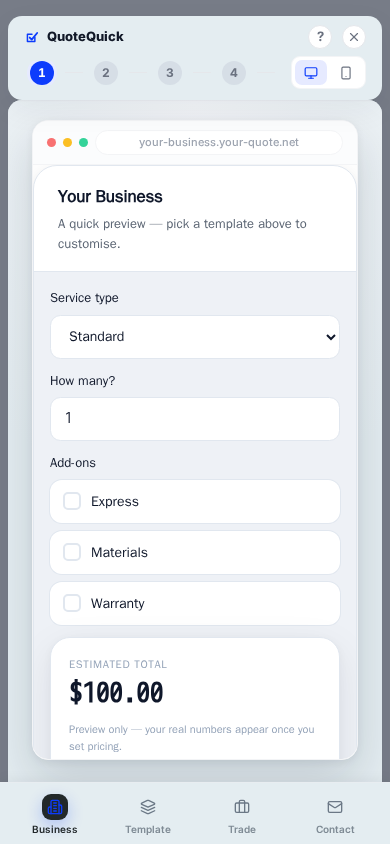
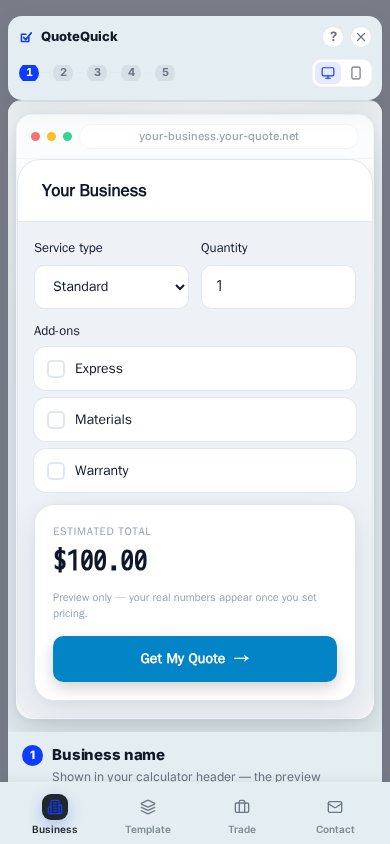
fix(quotequick): mobile polish — navbar fit, widget width, service+quantity row, 1px separator (#339)
* fix(quotequick): placeholder preview — drop subtitle, pair Service + Quantity

Wave G mobile polish (Fixes 2 + 4):

- buildBlankPreviewConfig: remove the auto-subtitle from the placeholder
  header so the preview header reads as a single clean line. Saved
  templates that author an explicit subtitle still render it.
- Rename the placeholder field label "How many?" -> "Quantity" — clearer
  intent for a numeric quantity selector.
- Add an optional `colSpan: 1 | 2` field hint on TemplateField and have
  AdvancedCalculator honour it via a 2-col CSS grid: default span 2
  (full width) so existing templates are visually unchanged; span 1
  pairs two short fields on one row. The placeholder uses colSpan: 1
  on Service + Quantity (same row) and colSpan: 2 on Add-ons.
- Multi-column layout opts back into its auto-fit grid (grid-column:
  auto) so it keeps the 3-up flex behaviour.
- <=360px collapses all colSpan: 1 fields back to a single column.

* fix(quotequick): wizard mobile chrome — step rail, full-width widget, separator

Wave G mobile polish (Fixes 1 + 3 + 5 / meta):

Fix 1 — Step circles + device toggle fit a single line on phones.
  At <=480px the step list no longer scrolls — circles shrink to 20px,
  connectors shrink to 8px, gaps tighten, the device toggle buttons
  shrink to 26x22, and the help/close buttons drop to 22x22. The whole
  navbar fits within a 360–414px viewport with no overflow.

Fix 3 / meta — Widget uses near-full screen width on mobile.
[…]

diff --git a/tests/audit/wizard-mobile.spec.ts b/tests/audit/wizard-mobile.spec.ts
@@ -1,0 +1,133 @@
+/**
+ * QuoteQuick wizard — Step 1 mobile polish (Wave G).
+ *
+ * Verifies the five user-reported mobile issues are fixed on a real phone
+ * viewport (iPhone 14-ish: 390 × 844):
+ *  1. Step circles + device toggle fit within the viewport width — no
+ *     horizontal overflow on the navbar.
+ *  2. The widget content uses near-full screen width (widget bounding box
+ *     ≥ viewport.width - 40px on mobile).
+ *  3. Service type and Quantity inputs render on the same row in the
+ *     placeholder preview (their top coords are within a few pixels).
+ *  4. The placeholder header has no subtitle paragraph below the title.
+ *  5. There is a visible 1px-ish separator between the step navbar and the
+ *     widget pane (the preview-fixed gets a top border on mobile).
+ *
+ * Runs under audit.config.ts (vite preview on :5000, no API).
+ */
+import { test, expect } from '@playwright/test';
+
+test.use({ viewport: { width: 390, height: 844 } });
+
+test.describe('wizard step 1 — mobile polish (Wave G)', () => {
+  test.beforeEach(async ({ page }) => {
+    await page.addInitScript(() => {
+      try {
+        localStorage.removeItem('qq_wizard');
+        localStorage.removeItem('qq_step');
+        localStorage.removeItem('qq_result');
+      } catch {}
+    });
+  });
+
+  test('step circles + device toggle fit one line, no horizontal overflow', async ({ page }) => {
+    await page.goto('/wizard', { waitUntil: 'domcontentloaded' });
+    await page.waitForTimeout(1500);
+
+    const navbar = page.locator('.wizard-navbar').first();
+    await expect(navbar).toBeVisible();
+
+    // All five numbered step buttons are present and visible.
+    for (let i = 1; i <= 5; i++) {
+      await expect(page.getByTestId(`nav-step-${i}`)).toBeVisible();
+    }
+
+    // Device toggle (mobile preview) is present (only renders on steps that
+    // show the side preview — Step 1 does).
+    const deviceMobile = page.getByTestId('preview-device-mobile');
+    await expect(deviceMobile).toBeVisible();
+
+    // The step list must not horizontally overflow its container — its
+    // scrollWidth equals its clientWidth (no clipped/scrollable content).
+    const steplist = page.locator('.wizard-nav-steplist').first();
+    const noOverflow = await steplist.evaluate((el) => el.scrollWidth <= el.clientWidth + 1);
+    expect(noOverflow).toBe(true);
+
+    // The navbar's right edge fits within the viewport — no off-screen
+    // content from the step row + device toggle combination.
+    const navBox = await navbar.boundingBox();
+    expect(navBox).not.toBeNull();
+    expect(navBox!.x + navBox!.width).toBeLessThanOrEqual(390 + 1);
+  });
+
+  test('widget uses near-full viewport width on mobile', async ({ page }) => {
+    await page.goto('/wizard', { waitUntil: 'domcontentloaded' });
+    await page.waitForTimeout(1500);
+
+    // Either bezel may be visible — default is desktop. On mobile screens
+    // both must expand to ≥ viewport.width - 40px (the Wave G meta rule).
+    const calc = page.getByTestId('advanced-calculator').first();
+    await expect(calc).toBeVisible();
+
+    const box = await calc.boundingBox();
+    expect(box).not.toBeNull();
+    expect(box!.width).toBeGreaterThanOrEqual(390 - 40);
+
+    // Now flip to mobile-bezel mode — same assertion must hold.
+    await page.getByTestId('preview-device-mobile').click();
+    await page.waitForTimeout(150);
+    const mobileBox = await calc.boundingBox();
+    expect(mobileBox).not.toBeNull();
+    expect(mobileBox!.width).toBeGreaterThanOrEqual(390 - 80); // mobile bezel adds bezel padding
+  });
+
+  test('Service type + Quantity render on the same row', async ({ page }) => {
+    await page.goto('/wizard', { waitUntil: 'domcontentloaded' });
+    await page.waitForTimeout(1500);
+
+    // Find the field wrappers carrying data-colspan inside the calculator.
+    // The placeholder preview emits exactly three fields: service (col 1),
+    // quantity (col 1), addons (col 2). The first two must share a row.
+    const calc = page.getByTestId('advanced-calculator').first();
+    await expect(calc).toBeVisible();
+
+    const halfFields = calc.locator('[data-colspan="1"]');
+    await expect(halfFields).toHaveCount(2);
+
+    const first = await halfFields.nth(0).boundingBox();
+    const second = await halfFields.nth(1).boundingBox();
+    expect(first).not.toBeNull();
+    expect(second).not.toBeNull();
+
+    // Same row — y-coordinates within a few pixels of each other.
+    expect(Math.abs(first!.y - second!.y)).toBeLessThanOrEqual(4);
+    // …and the second sits to the right of the first.
+    expect(second!.x).toBeGreaterThan(first!.x);
+  });
+
+  test('placeholder widget has no subtitle paragraph', async ({ page }) => {
+    await page.goto('/wizard', { waitUntil: 'domcontentloaded' });
+    await page.waitForTimeout(1500);
+
+    const calc = page.getByTestId('advanced-calculator').first();
+    await expect(calc).toBeVisible();
+
+    // The header bar is the first child of the advanced calculator. With no
+    // subtitle, it must contain exactly one <p> (the title line); the
+    // subtitle paragraph must not exist as an empty element either.
+    const headerPCount = await calc.locator(':scope > div').first().locator('p').count();
+    expect(headerPCount).toBe(1);
+  });
+
+  test('1px separator between step navbar and widget pane', async ({ page }) => {
+    await page.goto('/wizard', { waitUntil: 'domcontentloaded' });
+    await page.waitForTimeout(1500);
+
+    const preview = page.locator('.wizard-preview-fixed').first();
+    await expect(preview).toBeVisible();
+
+    const borderTop = await preview.evaluate((el) => getComputedStyle(el).borderTopWidth);
+    // CSS "1px solid <color>" — the computed border-top-width is "1px".
+    expect(borderTop).toBe('1px');
+  });
+});

diff --git a/client/src/components/wizard/WizardCard.tsx b/client/src/components/wizard/WizardCard.tsx
@@ -1831,6 +1831,7 @@ export default function WizardCard({ embed = false }: { embed?: boolean }) {
               {previewDevice === 'mobile' ? (
                 <div
                   data-testid="preview-bezel-mobile"
+                  className="qq-bezel qq-bezel--mobile"
                   style={{
                     width: '100%', maxWidth: 390, maxHeight: 780, flexShrink: 0, margin: '0 auto',
                     background: 'linear-gradient(160deg, #1e293b, #0f172a)',
@@ -1847,6 +1848,7 @@ export default function WizardCard({ embed = false }: { embed?: boolean }) {
               ) : (
                 <div
                   data-testid="preview-bezel-desktop"
+                  className="qq-bezel qq-bezel--desktop"
                   style={{
                     width: '100%', maxWidth: 820, maxHeight: 640, margin: '0 auto',
                     borderRadius: 16, overflow: 'hidden', background: '#fff',
@@ -1855,7 +1857,7 @@ export default function WizardCard({ embed = false }: { embed?: boolean }) {
                     boxShadow: '0 20px 48px rgba(15,23,42,0.16), 0 2px 8px rgba(15,23,42,0.06)',
                   }}
                 >
-                  <div style={{
+                  <div className="qq-bezel-chrome" style={{
                     display: 'flex', alignItems: 'center', gap: 7, flexShrink: 0,
                     padding: '9px 14px', background: '#fbfcfd',
                     borderBottom: `1px solid ${p.colors.borderLight}`,
@@ -2107,6 +2109,62 @@ export default function WizardCard({ embed = false }: { embed?: boolean }) {
           .wizard-2ndbar-item { flex: 1; padding: 5px 2px; gap: 3px; }
           .wizard-2ndbar-icon { width: 26px; height: 26px; }
           .wizard-2ndbar-label { font-size: 10px; }
+        }
+        /* Wave G mobile polish — phones (≤480px). Tighten the step-circle row
+           so all 5 numbers + the device toggle sit on a single line without
+           overflowing on 360–414px viewports. Labels stay hidden (the 980px
+           rule already does that); we just shrink circles, connectors and
+           gaps, and reserve no extra padding around the device toggle. The
+           steplist no longer scrolls — items shrink to fit, never overflow. */
+        @media (max-width: 480px) {
+          .wizard-navbar { padding: 8px 10px 10px; }
+          .wizard-nav-steps { gap: 6px; }
+          .wizard-nav-steplist {
+            gap: 0;
+            overflow-x: hidden;
+            justify-content: flex-start;
+          }
+          .wizard-nav-stepbtn { padding: 2px 1px; }
+          .wizard-nav-num { width: 20px; height: 20px; font-size: 11px; }
+          .wizard-nav-step[data-state="active"] .wizard-nav-num {
+            box-shadow: 0 0 0 2px ${p.colors.accentLighter};
+          }
+          .wizard-nav-line { flex: 0 0 8px; width: 8px; margin: 0 2px; }
+          .wizard-nav-device { padding: 2px; gap: 2px; }
+          .wizard-nav-device button { width: 26px; height: 22px; border-radius: 6px; }
+          .wizard-nav-right { gap: 6px; }
+          .wizard-nav-help, .wizard-nav-close { width: 22px; height: 22px; }
+          /* Fix 5 — visible 1px separator between the step navbar and the
+             widget pane below it. */
+          .wizard-preview-fixed {
+            padding: 12px 8px;
+            margin-top: 1px;
+            border-top: 1px solid ${p.colors.border};
+          }
+        }
+
+        /* Wave G — Fix 3 / meta. On a mobile-sized viewport (≤768px) neither
+           bezel may impose a cap that ends up narrower than the screen. The
+           desktop frame collapses to full screen width (the browser-chrome
+           "your-quote.net" pill stays — just expanded). The mobile bezel
+           also stretches to the available width minus a small symmetric
+           padding, so the calculator pane fills the screen. */
+        @media (max-width: 768px) {
+          .wizard-preview-fixed { padding: 12px 8px; box-sizing: border-box; }
+          .wizard-preview-stage { max-width: 100%; }
+          .wizard-preview-fixed > .wizard-preview-stage > .widget-scope { padding: 0 !important; }
+          .qq-bezel--desktop {
+            max-width: 100% !important;
+            max-height: none !important;
+            border-radius: 12px;
+          }
+          .qq-bezel--mobile {
+            max-width: 100% !important;
+            max-height: none !important;
+            padding: 8px 6px !important;
+            border-radius: 28px;
+          }
+          .qq-bezel--mobile > div:last-child { border-radius: 22px; }
         }
       `}</style>
 

diff --git a/shared/templatePresets.ts b/shared/templatePresets.ts
@@ -74,6 +74,15 @@ export interface TemplateField {
   id: string; name: string; label: string; type: FieldType;
   required?: boolean; default_value?: number; min?: number; max?: number;
   step?: number; unit?: string; on_value?: number; options?: TemplateOption[];
+  /**
+   * Optional layout hint — column span inside the inputs grid. `1` (default)
+   * means the field occupies one grid column; `2` makes it span the full
+   * width. Combined with the natural auto-fit grid this lets two short
+   * fields sit side-by-side on a single row without disturbing other
+   * templates (which simply leave it unset). Mobile (<=480px) always
+   * collapses to a single column regardless.
+   */
+  colSpan?: 1 | 2;
 }
 
 export interface TemplateCalculation {
@@ -592,22 +601,25 @@ export function buildBlankPreviewConfig(
 ): AdvancedConfigShape & { __preview: true } {
   // Leave `header.title` blank so the renderer falls back to the live
   // `calculator.business_name` (which updates as the user types), keeping the
-  // preview header reactive.
+  // preview header reactive. No `subtitle` — Wave G removed the auto-subtitle
+  // from the placeholder so the preview header reads as a single clean line.
+  // Service type + Quantity share a row (`colSpan: 1`); Add-ons spans the
+  // full width below them.
   return {
     enabled: true,
     theme: 'light',
     layout,
     fields: [
-      { id: 'service', name: 'Service', label: 'Service type', type: 'select',
+      { id: 'service', name: 'Service', label: 'Service type', type: 'select', colSpan: 1,
         options: [opt('Standard', 100), opt('Premium', 180), opt('Deluxe', 260)] },
-      { id: 'quantity', name: 'Quantity', label: 'How many?', type: 'number',
+      { id: 'quantity', name: 'Quantity', label: 'Quantity', type: 'number', colSpan: 1,
         min: 1, max: 50, step: 1, default_value: 1 },
-      { id: 'addons', name: 'Add-ons', label: 'Add-ons', type: 'multi_select',
+      { id: 'addons', name: 'Add-ons', label: 'Add-ons', type: 'multi_select', colSpan: 2,
         options: [opt('Express', 40), opt('Materials', 60), opt('Warranty', 25)] },
     ],
     calculations: [calc('Estimated Total', '[Service] * [Quantity] + [Add-ons]')],
     result_calc: 'Estimated Total',
-    header: { title: '', subtitle: 'A quick preview — pick a template above to customise.', align: 'left' },
+    header: { title: '', align: 'left' },
     results: { footnote: 'Preview only — your real numbers appear once you set pricing.' },
     __preview: true,
   } as AdvancedConfigShape & { __preview: true };

diff --git a/client/src/components/quote-widget/AdvancedCalculator.tsx b/client/src/components/quote-widget/AdvancedCalculator.tsx
@@ -33,6 +33,8 @@ interface AdvField {
   on_value?: number;
   options?: AdvOption[];
   visible_when?: { field: string; op: string; value: number };
+  /** Optional grid column span (1 = half width, 2 = full width). */
+  colSpan?: 1 | 2;
 }
 interface AdvCalc { id: string; name: string; formula: string; format: 'number' | 'currency' | 'percent'; }
 interface AdvHeader { title?: string; subtitle?: string; align?: 'left' | 'center' | 'right'; }
@@ -287,9 +289,16 @@ export default function AdvancedCalculator({ businessName, logoUrl, advanced, ac
         .${gridId}-fields {
           display: grid;
           gap: 12px;
-          grid-template-columns: 1fr;
+          grid-template-columns: repeat(2, minmax(0, 1fr));
           align-content: start;
           min-width: 0;
+        }
+        .${gridId}-fields > * { grid-column: span 2; min-width: 0; }
+        .${gridId}-fields > [data-colspan="1"] { grid-column: span 1; }
+        /* Very narrow screens — collapse all fields to a single column so a
+           pair of side-by-side inputs stack cleanly on the smallest phones. */
+        @media (max-width: 360px) {
+          .${gridId}-fields > [data-colspan="1"] { grid-column: span 2; }
         }
         .${gridId}-result { align-self: start; min-width: 0; }
         @media (min-width: 560px) {
@@ -301,6 +310,7 @@ export default function AdvancedCalculator({ businessName, logoUrl, advanced, ac
             grid-template-columns: repeat(auto-fit, minmax(170px, 1fr));
             gap: 12px;
           }
+          .${gridId}[data-layout="multi-column"] .${gridId}-fields > * { grid-column: auto; }
         }
       `}</style>
       <div className={gridId} data-layout={layout} data-testid="advanced-body"
@@ -313,8 +323,10 @@ export default function AdvancedCalculator({ businessName, logoUrl, advanced, ac
             </p>
           )}
           {visibleFields.map((f) => (
-            <FieldInput key={f.id} field={f} value={answers[f.name]} accent={accent} theme={c}
-              onChange={(v) => setAnswer(f.name, v)} />
+            <div key={f.id} data-colspan={f.colSpan === 1 ? '1' : '2'} style={{ minWidth: 0 }}>
+              <FieldInput field={f} value={answers[f.name]} accent={accent} theme={c}
+                onChange={(v) => setAnswer(f.name, v)} />
+            </div>
           ))}
         </div>
 